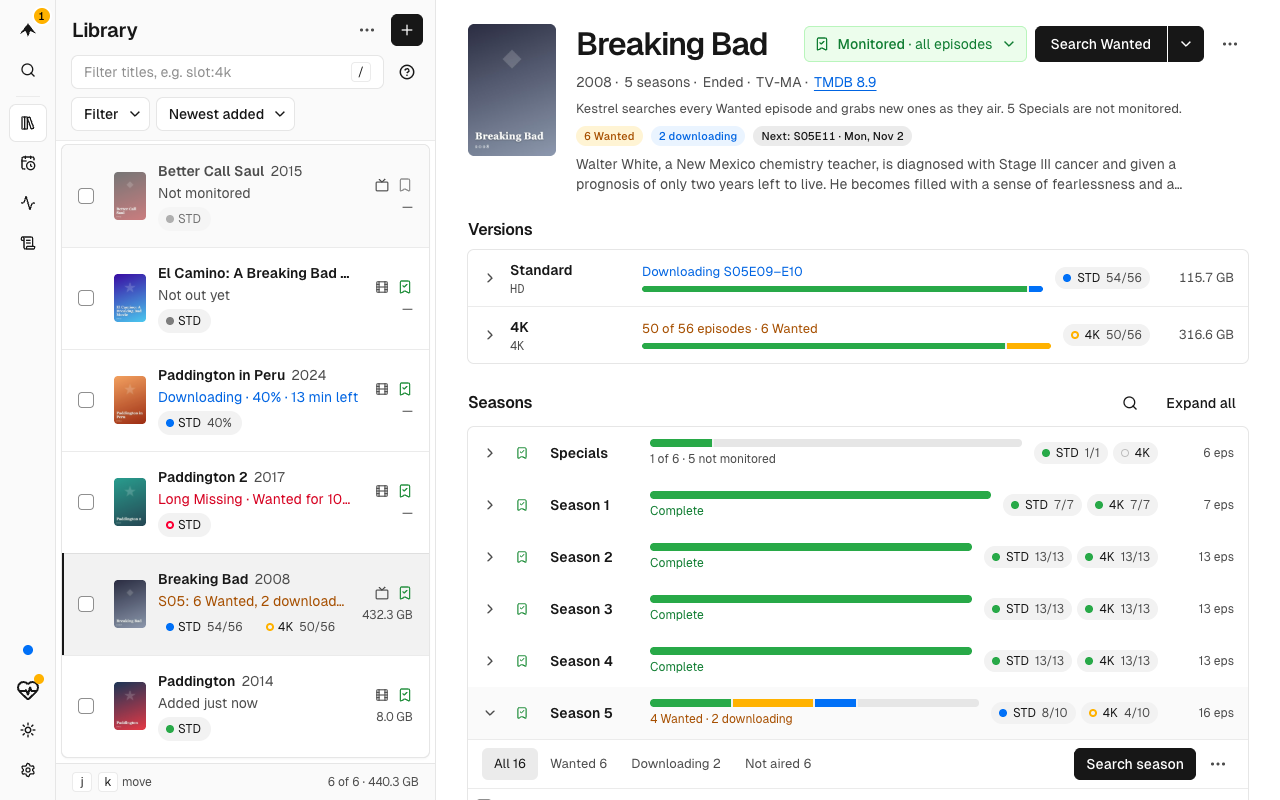
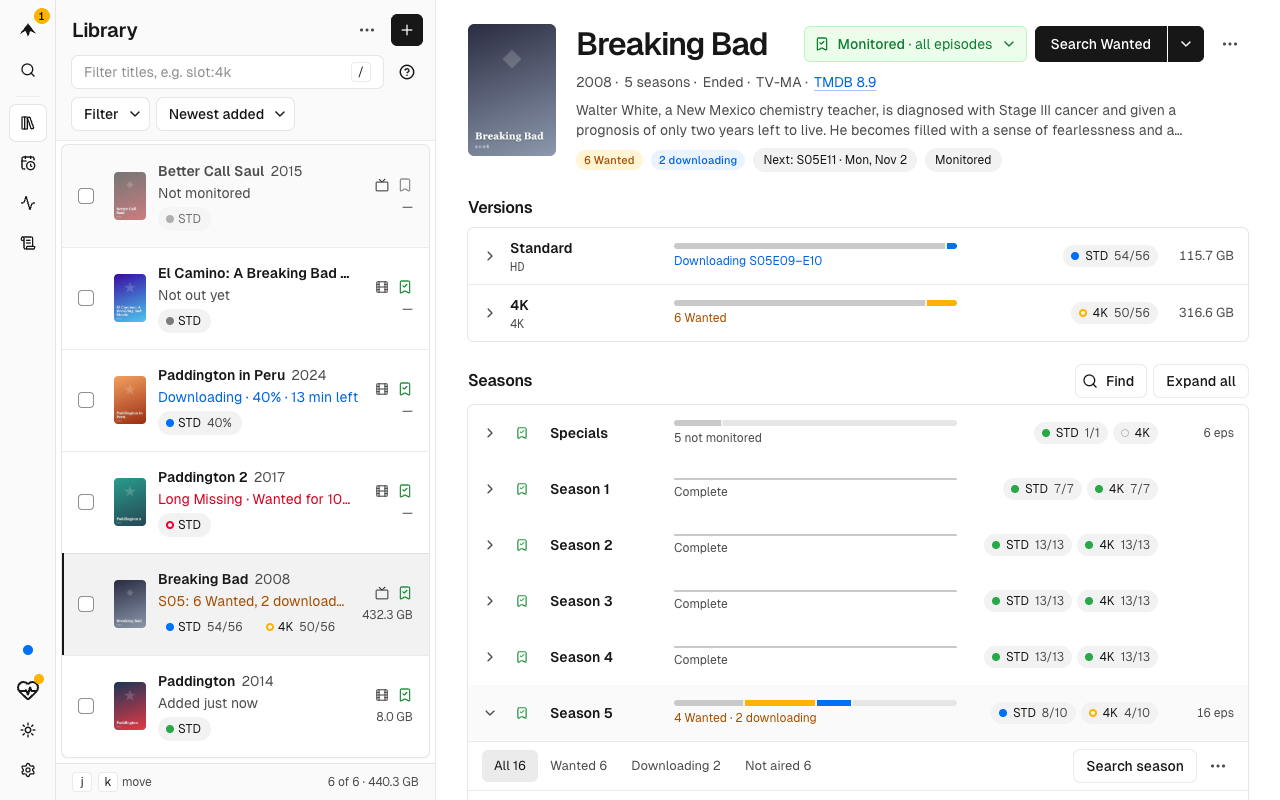
chore(release): 0.13.0

diff --git a/CHANGELOG.md b/CHANGELOG.md
@@ -1,5 +1,40 @@
 # Changelog
 
+## [0.13.0](https://github.com/hyprsh/kestrel/compare/v0.12.0...v0.13.0) (2026-11-02)
+
+> A calmer Title page that says each thing once, an Upgrade button that actually searches for a better Release, and media-server refreshes that survive a burst of changes instead of being rate-limited away. Relabeling a Slot now renames its files in the background, and Slots and Profiles share one Settings page.
+
+### Upgrade Steps
+
+* **API:** a Profile's 4K resolution is now `4k` in responses. Requests still accept the old `uhd` as a deprecated alias, so existing scripts keep working. Switch them to `4k` before the alias is removed.
+* **Silo:** a connection that leaves the 2160p tier unmapped now sends it to the first Slot whose default Profile is 4K, else to the 1080p tier's Slot. If you relied on the old `4k` Slot default, check where the connection's settings say the tier goes.
+
+### New Features
+
+* **library:** Upgrade on a filled episode runs an automatic search that grabs only a Release the Profile ranks above the file you have, and says "nothing to upgrade" when the episode is already at its Cutoff. Manual search moved to the row's ⋯ menu ([#338](https://github.com/hyprsh/kestrel/pull/338)), closes [#274](https://github.com/hyprsh/kestrel/issues/274)
+* **library:** the episode table has one Slots column whose chips are always labelled, and each episode's monitoring toggle can be reached and flipped from the keyboard ([#338](https://github.com/hyprsh/kestrel/pull/338)), closes [#331](https://github.com/hyprsh/kestrel/issues/331), [#273](https://github.com/hyprsh/kestrel/issues/273)
+* **library:** a Title page shows the overview right under the title, then one row of chips for the Slots, the release, monitoring and Cutoff, and who requested it. The request chip opens the Request, and an older release date shows its year ([#335](https://github.com/hyprsh/kestrel/pull/335)), closes [#333](https://github.com/hyprsh/kestrel/issues/333)
+* **library:** Version rows and the episode file popover say each fact once. On a Series page, the Versions card and the Seasons rows line up on one grid, and a complete Version or Season is drawn quietly so colour marks only what needs a look ([#335](https://github.com/hyprsh/kestrel/pull/335), [#337](https://github.com/hyprsh/kestrel/pull/337), [#344](https://github.com/hyprsh/kestrel/pull/344)), closes [#332](https://github.com/hyprsh/kestrel/issues/332), [#330](https://github.com/hyprsh/kestrel/issues/330)
+* **overview:** click a day in Grabs per day, or one of its imported or failed segments, to see those Grabs in Activity History. Click an indexer in the Indexers card to see its Grabs over the Overview's range ([#340](https://github.com/hyprsh/kestrel/pull/340)), part of [#319](https://github.com/hyprsh/kestrel/issues/319)
+* **slots:** relabeling a Slot saves at once and renames its files in a background job that shows its progress in Activity and resumes after a restart. A Title that can't be renamed raises a Health warning. A Config File label change no longer holds up startup ([#336](https://github.com/hyprsh/kestrel/pull/336)), closes [#323](https://github.com/hyprsh/kestrel/issues/323)
+* **settings:** Slots and their default Profiles are set on one page, Settings › Slots & Profiles, and old links redirect there. Settings moves to the bottom of the rail ([#341](https://github.com/hyprsh/kestrel/pull/341)), closes [#328](https://github.com/hyprsh/kestrel/issues/328), [#327](https://github.com/hyprsh/kestrel/issues/327)
+* **setup:** the wizard marks each step required or optional, explains the Cutoff and size limits, and ends on a summary that links to the Overview and Health. The guide gains a tour of the screens, Views and the Filter menu, and how to read a failed Grab ([#341](https://github.com/hyprsh/kestrel/pull/341)), closes [#281](https://github.com/hyprsh/kestrel/issues/281)
+* **silo:** the 2160p tier defaults to a Slot that exists on your install, and the connection's settings name it ([#334](https://github.com/hyprsh/kestrel/pull/334)), closes [#317](https://github.com/hyprsh/kestrel/issues/317)
+
+### Bug Fixes
+
+* **imports:** when many Title folders change at once, media servers are told in paced batches, and a rate-limited server is retried until it has heard every folder, instead of losing most refreshes ([#336](https://github.com/hyprsh/kestrel/pull/336)), closes [#324](https://github.com/hyprsh/kestrel/issues/324)
+* **library:** with Open the newest season on, a Series page opens the newest season and every season with something Wanted, as the setting says ([#337](https://github.com/hyprsh/kestrel/pull/337)), closes [#315](https://github.com/hyprsh/kestrel/issues/315)
+* **library:** a Series Slot's running downloads show one line per Grab, with progress, time left and a link to Activity ([#337](https://github.com/hyprsh/kestrel/pull/337)), closes [#283](https://github.com/hyprsh/kestrel/issues/283)
+
+### Performance Improvements
+
+* **library:** opening the Library from another screen no longer draws every Title first, so rows show in tens of milliseconds on a large Library ([#342](https://github.com/hyprsh/kestrel/pull/342)), closes [#325](https://github.com/hyprsh/kestrel/issues/325)
+
+### Other Changes
+
+* **web:** Kestrel uses hyprsh/design v0.18. The Settings section list, the Overview's download speed chart (now with View as Table) and Top release groups use the design system's components, and those charts draw in its chart colour ([#343](https://github.com/hyprsh/kestrel/pull/343)), closes [#321](https://github.com/hyprsh/kestrel/issues/321)
+
 ## [0.12.0](https://github.com/hyprsh/kestrel/compare/v0.11.0...v0.12.0) (2026-11-02)
 
 > You define your own Slots now: up to four copies of each Title, named as you like, such as Standard, 4K, Remux or German. And you add Profiles from recipes that fit your household's language, instead of choosing from six fixed ones. The whole web app is redesigned around a side panel, loads in a third of the time on a phone, and stays fast with thousands of Titles. See [Slots](https://github.com/hyprsh/kestrel/blob/main/docs/guide/slots.md).
